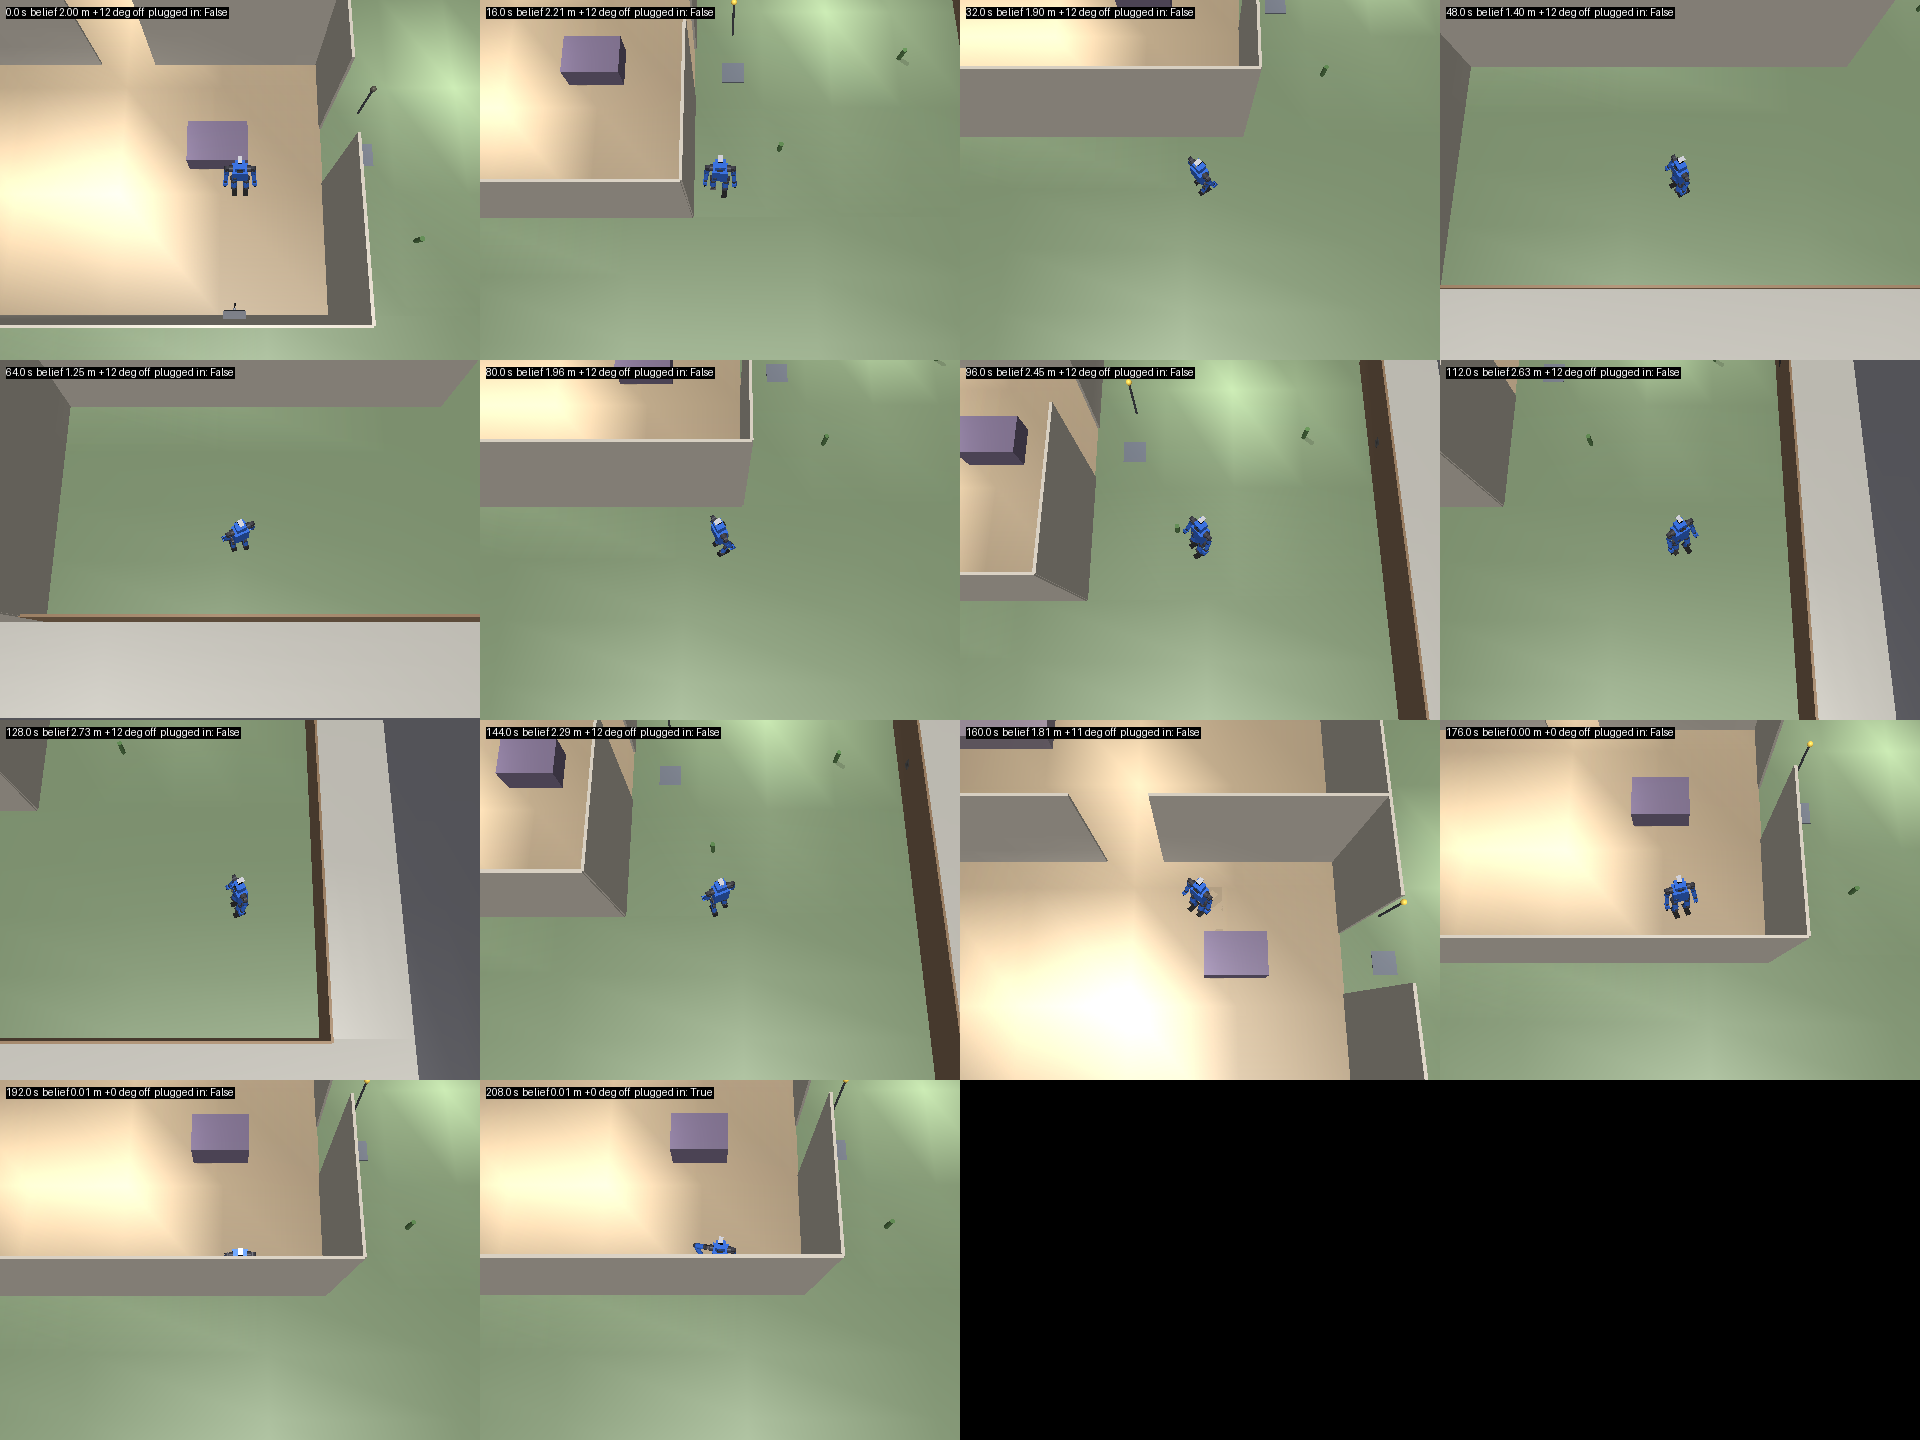
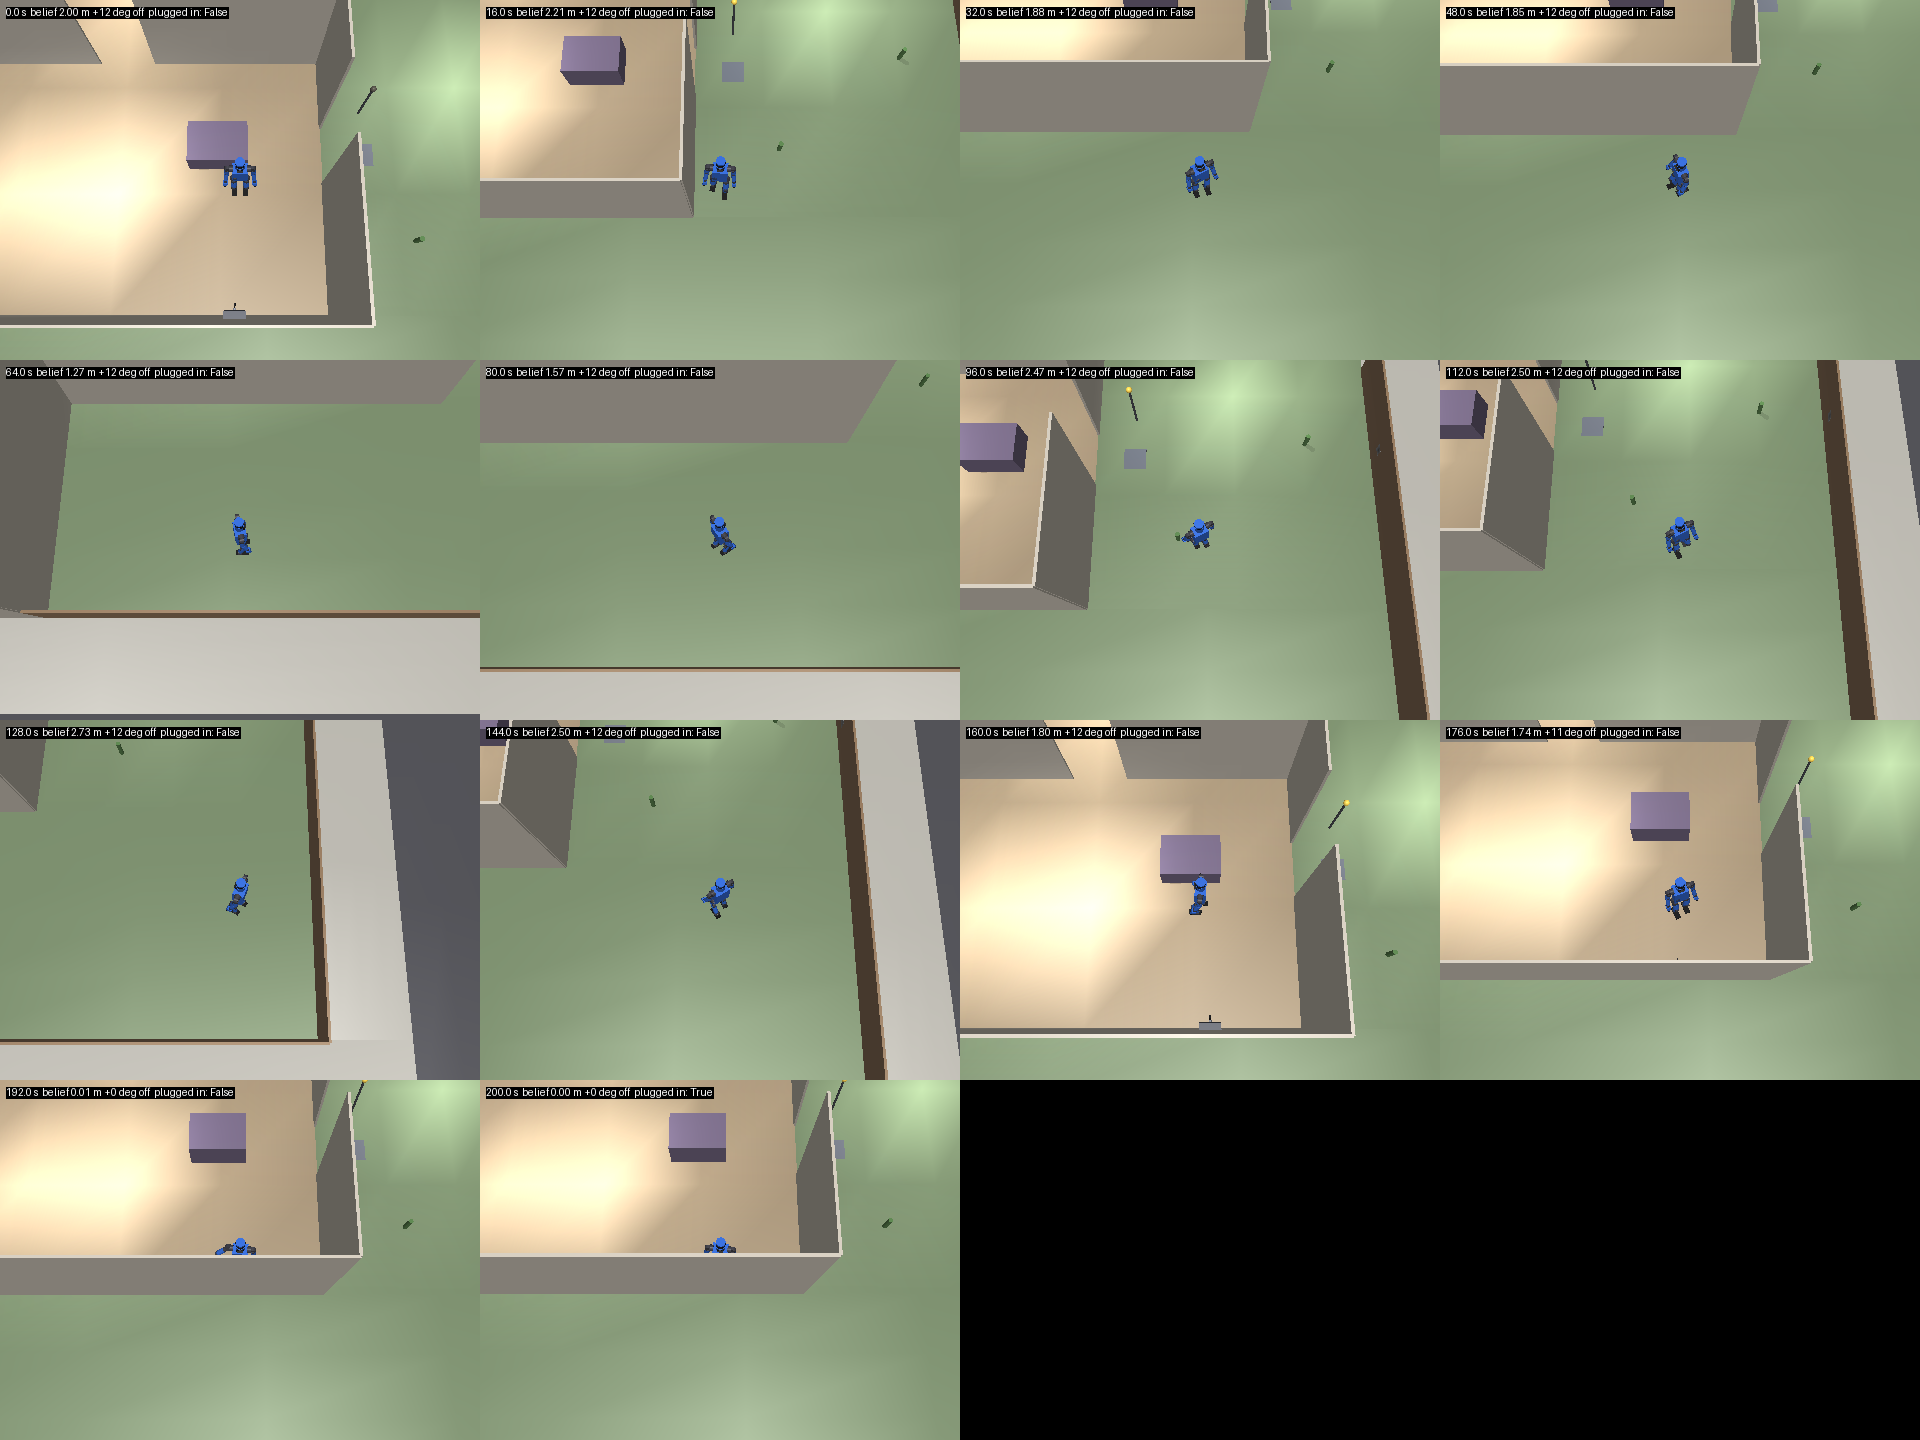
The station found from far off, measured again on #592's head: the far sweep 121 of 123 (staging 14), explored first 23 of 27 (1), the drift batch 60 of 60 (59), the station 131 of 132 (124), the falls and the head camera's reach; both filmstrips drawn again (#572, stage 3)
Both arms on the head built round the LIDAR, its navigation camera 3.5 cm
lower, with #593's heading hold: this branch at 58336af, and staging
15e37db with the far sweep's workshop start off its table. The camera
reads the tags as far as before; its fit of the pair is noisier past 2 m
(up to 14 deg at 2-2.5 m, 40 at 3-4.5), within 2.4 deg to 1.5 m, so the
1.6 m limit on a fix stands, and charge.py's constants say so. #592's lost
drift flight (seed 16) no longer falls with #593's hold, and its own
commit does not replay on another pod's CPU: the get-up's hold is read off
the falls, 0.00 m through each of eight get-ups, 7 of 8 back within 5 s.

diff --git a/src/pluggybot/humanoid/charge.py b/src/pluggybot/humanoid/charge.py
@@ -115,16 +115,16 @@ LOST_PATIENCE_S = 600.0
 #: ...and seen, it walks this far out of the station's face, m, as `rough`
 #: places it -- the colour imager reads the pair from there -- faces it and
 #: looks, in this many tries at most. ⚠ NEARER BY WHAT IT SAW, NEVER A FIX
-#: OFF A FAR LOOK: past 2 m the head's camera places a tag to 1-8 cm, but
-#: the pair is 18 cm across, and its facing came out 1-5.5 deg off at 2-2.5
-#: m and up to 29 deg at 3-4.5 m (66 in a probe; once both tags 0.26 m long).
+#: OFF A FAR LOOK: past 2 m the head's camera places a tag to 0.2-13 cm, but
+#: the pair is 18 cm across, and its facing came out 1-14 deg off at 2-2.5 m
+#: and up to 40 deg at 3-4.5 m (66 in a probe; once both tags 0.26 m long).
 NEAR_M, NEAR_TRIES = 1.0, 4
 #: ...and seen again after tries that never fitted it, nearer by that look
 #: again, this many times in all.
 NEAR_ROUNDS = 2
 #: A look of the head's camera fits the station to fix by once both its tags
 #: are this near, m: within 1.5 m -- both read only within 15 deg of its
-#: face -- the pair's facing came out within 1.9 deg, its place 1.3 cm.
+#: face -- the pair's facing came out within 2.4 deg, its place 8 mm.
 NEAR_FIT_M = 1.6
 #: ...and a far look's facing is taken only within this of the way it was
 #: seen from, rad (a sign is read only from in front of it): else the robot

diff --git a/docs/SimNotes.md b/docs/SimNotes.md
@@ -4649,10 +4649,10 @@ viewpoints outward from where it believes the station is, and once seen,
 to a metre out of the station as that look placed it, where a look fits it
 near enough to put the belief right (`_fix_at`). Its belief set 1-5 m and
 5-20 deg wrong -- 2 m out, from the house's six rooms and across the street
--- it docked 118 of 123 (staging, from the same starts, 14); explored
-first, laying its map askew through that belief, 24 of 27 (staging 2).
-Begun within 5 m of the truth, its search found the station 107 times in
-107. The walk to the station is given the time its length takes, a dock that
+-- it docked 121 of 123 (staging, from the same starts, 14); explored
+first, laying its map askew through that belief, 23 of 27 (staging 1).
+Begun within 5 m of the truth, its search found the station 109 times in
+109. The walk to the station is given the time its length takes, a dock that
 saw the station and never got in goes again, and a fall's get-up walks no
 belief. Where its scans are matched its heading needs no hold at rest:
 with the band, Rowan's draws stood 180 s in the middle street and their
@@ -4663,10 +4663,11 @@ heading moved 0.1 deg (9 on the C1); where none are, #593's hold keeps it.
 walks to where it believes the standoff is -- truly the south garden,
 outside the station's own wall -- looks round and searches the garden's
 viewpoints round where it believes the station is, comes in by the garden
-door at about 150 s, sees the station, walks nearer by what it saw, puts
-its belief right (1.7 m and 11 deg) and plugs itself in at 209 s, a tile
+door at about 155 s, sees the station, walks nearer by what it saw, puts
+its belief right (1.7 m and 11 deg) and plugs itself in at 199 s, a tile
 every 16 s (`station_spike.py --strip lost --lost-from station --lost-off
--1.606,-1.192,12`, every other tile)](figures/humanoid_station_far_found.png)
+-1.606,-1.192,12`, every other tile and the
+last)](figures/humanoid_station_far_found.png)
 
 **What its cameras read of the station** (`station_spike.py --reach`: set
 out of the station's face and off its axis, facing it, a decode of each
@@ -4681,11 +4682,15 @@ from 50 deg only within 1.5 m:
 
 | out of the face | tags the head's camera read, 0 / 15 / 30 / 50 deg off its axis | the pair fitted off them: its facing, its place |
 |---|---|---|
-| 0.8-1.0 m | 2 / 2 / 2 / 1-2 | within 0.7 deg, 8 mm |
-| 1.25-1.5 m | 2 / 2 / 1 / 1 | within 1.9 deg, 10 mm |
-| 2-2.5 m | 2 / 2 / 1 / 0 | 1.0-5.5 deg, 7-54 mm |
-| 3-4.5 m | 0-2 / 0-2 / 1 / 0 | 0.6-28.6 deg, 7-61 mm |
+| 0.8-1.0 m | 2 / 2 / 2 / 1-2 | within 0.7 deg, 7 mm |
+| 1.25-1.5 m | 2 / 2 / 1 / 1 | within 2.4 deg, 6 mm |
+| 2-2.5 m | 2 / 2 / 1 / 0 | 1.0-14.4 deg, 0-51 mm |
+| 3-4.5 m | 0-2 / 0-2 / 1 / 0 | 1.1-40.2 deg, 4-47 mm |
 | 5 m | 0 / 0 / 1 / 0 | |
+
+(On #581's stage 3 head, its navigation camera 3.5 cm lower; on the first
+head the same tags read, and the pair's facing came out within 1.9 deg to
+1.5 m, 1.0-5.5 deg at 2-2.5 m and up to 28.6 deg at 3-4.5 m.)
 
 A far look says where the station is to a few centimetres and which way
 it faces to tens of degrees: the pair is 18 cm across, and a centimetre of
@@ -4736,23 +4741,29 @@ tumbling body's feet: a fall walked the belief 1.7-2.1 m in stage 2's
 flights and Luca's 3.7 m live, past the wide search's 2 m. It is held
 through the get-up, and stood, its planted foot is read afresh -- the foot
 planted before the fall counted the whole get-up's move at once. Luca's
-draws in the workshop and Rowan's in the garden, staging's code and this
-stage's, 9 of 12 stood each (three wedged in the workshop and the garden
-were still getting up at 40 s, on either):
+draws in the hall and Rowan's in the bedroom, where their explores end on
+#581's stage 3 head, staging's code and this stage's: 8 of 12 shoves put
+the robot down on either (it stood through the rest), and every one stood
+within 5 s:
 
 | | staging | the odometry held |
 |---|---|---|
-| the body moved during the get-up | 0.20-1.33 m | the same |
-| the belief moved during the get-up | 0.47-2.10 m | 0.00 |
-| the belief off as it stood | 0.49-2.39 m | 0.07-1.58 |
-| 5 s on | within 0.09 m | within 0.07 |
+| the body moved during the get-up | 0.10-1.35 m | the same |
+| the belief moved during the get-up | 0.66-1.80 m | 0.00 |
+| the belief off as it stood | 0.64-1.79 m | 0.04-1.38 |
+| 5 s on, back within 0.11 m | 5 of 8 | 7 of 8 |
 
 What a held belief is off by as it stands is what the get-up moved the
 body and what the stagger before the fall left (the legs track a stagger
-under a shove only to 0.1-1.0 m); the matcher's searches took every one
-back within 5 s, the wide search the furthest (`relocated`). Held, the
+under a shove only to 0.1-1.0 m). The matcher's searches took most back
+within 5 s. The held one they did not, Rowan's draws shoved from 240 deg,
+the get-up carrying the body 1.35 m, stood 1.37 m off with its scans
+sliding -- refused, never fused, so its map stays true -- and is left to
+the station's look at its next charge; walked, staging left three 0.6-1.2
+m off, two on scans the matcher held along a wall. (On the first head, in
+the workshop and the garden, every one came back within 5 s.) Held, the
 belief can be no further off than the fall carried the body; walked, it
-went 3.7 m live.
+went 3.7 m live. The three falls in this stage's far sweeps all docked.
 
 **The heading at rest, read before and after** (stage 2 asked for it to be
 read first). Rowan's draws stood 180 s in the middle street: on the C1 its
@@ -4766,33 +4777,46 @@ update is needed there. Where nothing is matched -- every scan refused, a
 robot lost -- #593 holds the heading at a standstill ("A robot left
 standing when its run ends, and a heading held at a standstill").
 
-**Measured** (`station_spike.py --lost --far`, flown on Vast CPU pods, each
-trial a process; staging is 44f28e4, both with the workshop's start moved
-off its table -- stage 2's put the robot inside it):
+**Measured** (`station_spike.py --lost --far`, flown on a Vast CPU pod, each
+trial a process; staging is 15e37db -- #581's stage 3 head, its navigation
+camera 3.5 cm lower, and #593's heading hold -- both with the workshop's
+start moved off its table, where stage 2's put the robot inside it; the
+times over the 123):
 
 | | staging | this stage |
 |---|---|---|
-| belief 1-5 m and 5-20 deg wrong: 2 m out (15), the house's six rooms (72), across the street (36) | **14 of 123** docked; 5 never searched, their walks out of time | **118 of 123**; every station found was plugged into |
-| ...explored 120 s first, its map laid through the wrong belief: the rooms (18), across the street (9) | **2 of 27** | **24 of 27** |
-| found, where the search began within 5 m of the truth | 15 of 103 | **107 of 107** |
-| ...where it began 5 m and more off | 0 of 38 | 32 of 40 |
-| the search, when it found the station | median 33 s | median 96 s; 9 in 10 within 242 s |
-| the whole charge, when it docked | median 93 s | median 175 s; 9 in 10 within 381 s |
+| belief 1-5 m and 5-20 deg wrong: 2 m out (15), the house's six rooms (72), across the street (36) | **14 of 123** docked; 4 never searched, their walks out of time | **121 of 123**; every station found was plugged into |
+| ...explored 120 s first, its map laid through the wrong belief: the rooms (18), across the street (9) | **1 of 27** | **23 of 27** |
+| found, where the search began within 5 m of the truth | 13 of 105 | **109 of 109** |
+| ...where it began 5 m and more off | 0 of 37 | 32 of 38 |
+| the search, when it found the station | median 40 s | median 95 s; 9 in 10 within 307 s |
+| the whole charge, when it docked | median 91 s | median 177 s; 9 in 10 within 440 s |
 
-The drift batch (`humanoid_drift_spike.py`, #572's 14 flights and #581's
-16 more seeds) docked 30 of 30 (#581's review: 29); its beliefs are those
-flights' to the millimetre until the charge, the code unchanged before it.
-The one #581 lost, Rowan's draws on their second walk home, found no route
-to the standoff again; this time it searched, found the station in 58 s
-and docked. The station's own batches: from round the standoff 14 of 15
-(the dock alone, unchanged: one never lined up), its belief 0.4-1 m wrong
-16 of 16 (each search found it in 4-50 s; staging after #581's review, 13),
-from across the house 16 of 16.
+On the first head (staging 44f28e4) the same sweeps read 118 of 123 and 24
+of 27 (staging 14 and 2), every search begun within 5 m finding it.
+
+The drift batch (`humanoid_drift_spike.py`, #581's stage 3's 60: #572's 14
+flights and seeds 3-29 from either start) docked 60 of 60, none lost and
+none fallen, its beliefs staging's to the centimetre until the charge
+(staging docked 59, its miss a plug the port never took). On this head
+before #593's hold (#581's stage 3 alone) one was lost: seed 16 from the
+start fell in the garden at 255 s and stood believing itself 3 m off, the
+get-up having walked its odometry. With #593's heading hold its explore
+goes otherwise and it never falls, here or on staging, and its own commit
+flown again on another pod's CPU parted from that flight within 100 s and
+fell nowhere, so what the get-up's hold does for it is read off the falls
+above. The station's
+own batches, as #581's stage 3 flew them: from round the standoff 15 of 15
+and 33 of 33, its belief 0.4-1 m wrong 16 of 16 and 51 of 52 (every search
+found it, in 2-235 s; the miss a plug the port never took), from across
+the house 16 of 16 -- 131 of 132, where staging docked 124 (four never
+lined up, which the dock's retry takes, two walks that gave up 0.2 m
+short, and two plugs the port never took).
 
 **Not done.** What the search does not reach is a robot lost 5 m and more
 off across the street: its walk home ends outside the house's south fence,
-in the street or on its sidewalk, and 8 such searches in 40 ran out of their
-600 s there (or out of viewpoints, once). Stage 4's station in the research
+in the street or on its sidewalk, and 6 such searches in 38, begun 6.1-9.2 m
+off, ran out of their 600 s there. Stage 4's station in the research
 center would put a robot right before it crossed back, and is Ben's call on
 this reading. The walker's seat (#581) is what is left of a charge from its
 standoff.

diff --git a/CLAUDE.md b/CLAUDE.md
@@ -503,7 +503,7 @@ save a filmstrip PNG named after the script.
   look placed it (`charge.rough`); a look that fits it near (`near_fit`,
   the colour imager's or within 1.6 m the head's) is a fix (`_fix_at`, the
   anchor's too), ⚠ NEVER A FAR ONE: past 2 m the pair's facing reads up to
-  29 deg off. Searched too after walks that never got there (unless the other
+  40 deg off. Searched too after walks that never got there (unless the other
   robot stopped them), bounded by the pack; the walk itself is given 6 s a
   metre of the straight line (`CHARGE_WALK_S_M`). ⚠ A SQUEEZE HOLDS THE PLUG ONLY AT THE JACK'S WIDTH
   (`PLUG_GAP_TOL_M`): wider is the station's boss, and the hand draws back
@@ -513,17 +513,17 @@ save a filmstrip PNG named after the script.
   (`step_routine`, #581's stage 2): the band's matcher at the station, its
   corrections walked as steps, stopped one 3.6 cm inside the seat, and the
   walker cannot back up so little. Measured: plugged in from 140 of 140 seats over the
-  seat check (110 before), unplugged 140 of them; with the band (#581's
-  stage 2, after its review) 32 of 33 from round the standoff and 16 of 16
-  from across the house, most misses a step 4-5 cm inside the seat, which
-  the walker cannot back off (a dock that never got in goes again from the
-  standoff, once a charge, #572 stage 3); ⚠ ITS BELIEF SET 1-5 M AND 5-20
-  DEG WRONG, 118 of 123 docked and, explored first on a map laid through it,
-  24 of 27 (staging, the same starts: 14 and 2), every search begun within
-  5 m of the truth finding the station (107 of 107), and 8 of 40 begun
-  further off, across the street, running out of their 600 s outside the
-  house's south fence (#572 stage 3; SimNotes, "The station found from far
-  off"); 16 of 16 with it 0.4-1 m wrong; 339 W net; the reserve 18 Wh (17.5 before the Mid-360S's 6.2 W, #581).
+  seat check (110 before), unplugged 140 of them; on #581's stage 3 head 48
+  of 48 from round the standoff and 16 of 16 from across the house, a dock
+  that never got in going again from the standoff, once a charge (#572
+  stage 3: the walker cannot back off a step 4-5 cm inside the seat); ⚠ ITS
+  BELIEF SET 1-5 M AND 5-20 DEG WRONG, 121 of 123 docked and, explored
+  first on a map laid through it, 23 of 27 (staging, the same starts: 14
+  and 1), every search begun within 5 m of the truth finding the station
+  (109 of 109), and 6 of 38 begun further off, across the street, running
+  out of their 600 s outside the house's south fence (#572 stage 3;
+  SimNotes, "The station found from far off"); 67 of 68 with it 0.4-1 m
+  wrong, the miss a plug the port never took; 339 W net; the reserve 18 Wh (17.5 before the Mid-360S's 6.2 W, #581).
 - **The humanoid's LIDAR is a Livox Mid-360S, upside down in its head,
   and its map is laid from its points laid flat** (#581; `perception/lidar.py`,
   `HumanoidSpec.lidar_z`, `model._head`, `HumanoidMission._scan`/`maps`,

diff --git a/docs/Observatory.md b/docs/Observatory.md
@@ -43,9 +43,9 @@ observatory is NOT a result: it reports into the issue it informs.
 **Why.** #572's stage 2: lost past a metre, the search found the station 0
 times in 43, and from across the street the charge's walks ran out of time
 first; and a fall's get-up walked Luca's belief 3.7 m live. Flown (SimNotes,
-"The station found from far off"), its belief set 1-5 m and 5-20 deg wrong:
-118 of 123 docked (staging, 14); explored first, 24 of 27 (staging, 2); the
-drift batch 30 of 30.
+"The station found from far off") on #581's stage 3 head, its belief set 1-5
+m and 5-20 deg wrong: 121 of 123 docked (staging, 14); explored first, 23 of
+27 (staging, 1); the drift batch 60 of 60 (staging, 59).
 
 **What the period is for.** #572's last box: a day of the pair, every charge
 found, each map corrected there -- off the `drift` rows (`lost`, then
